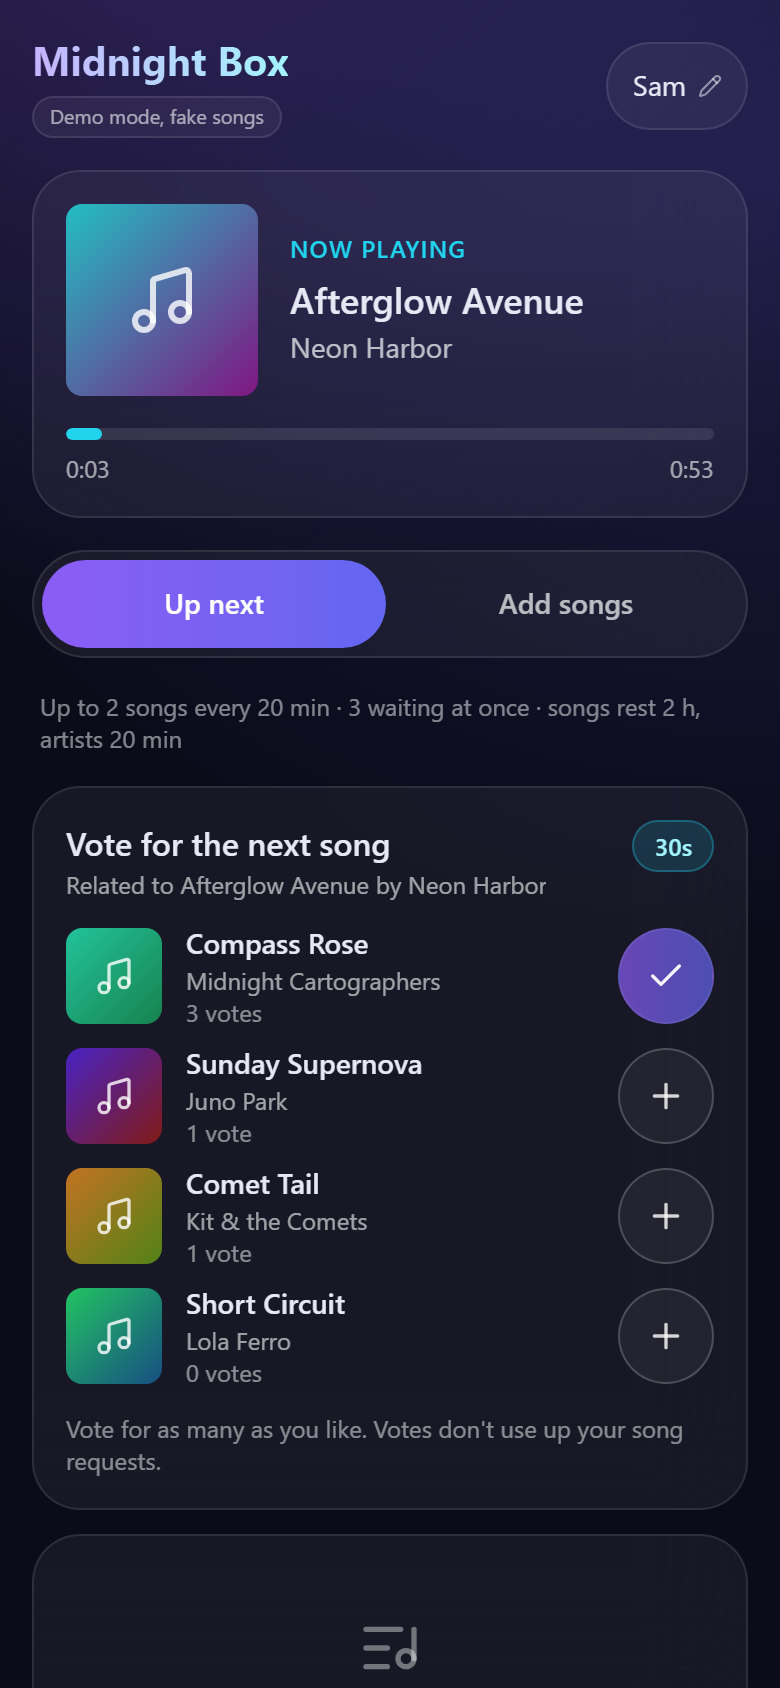
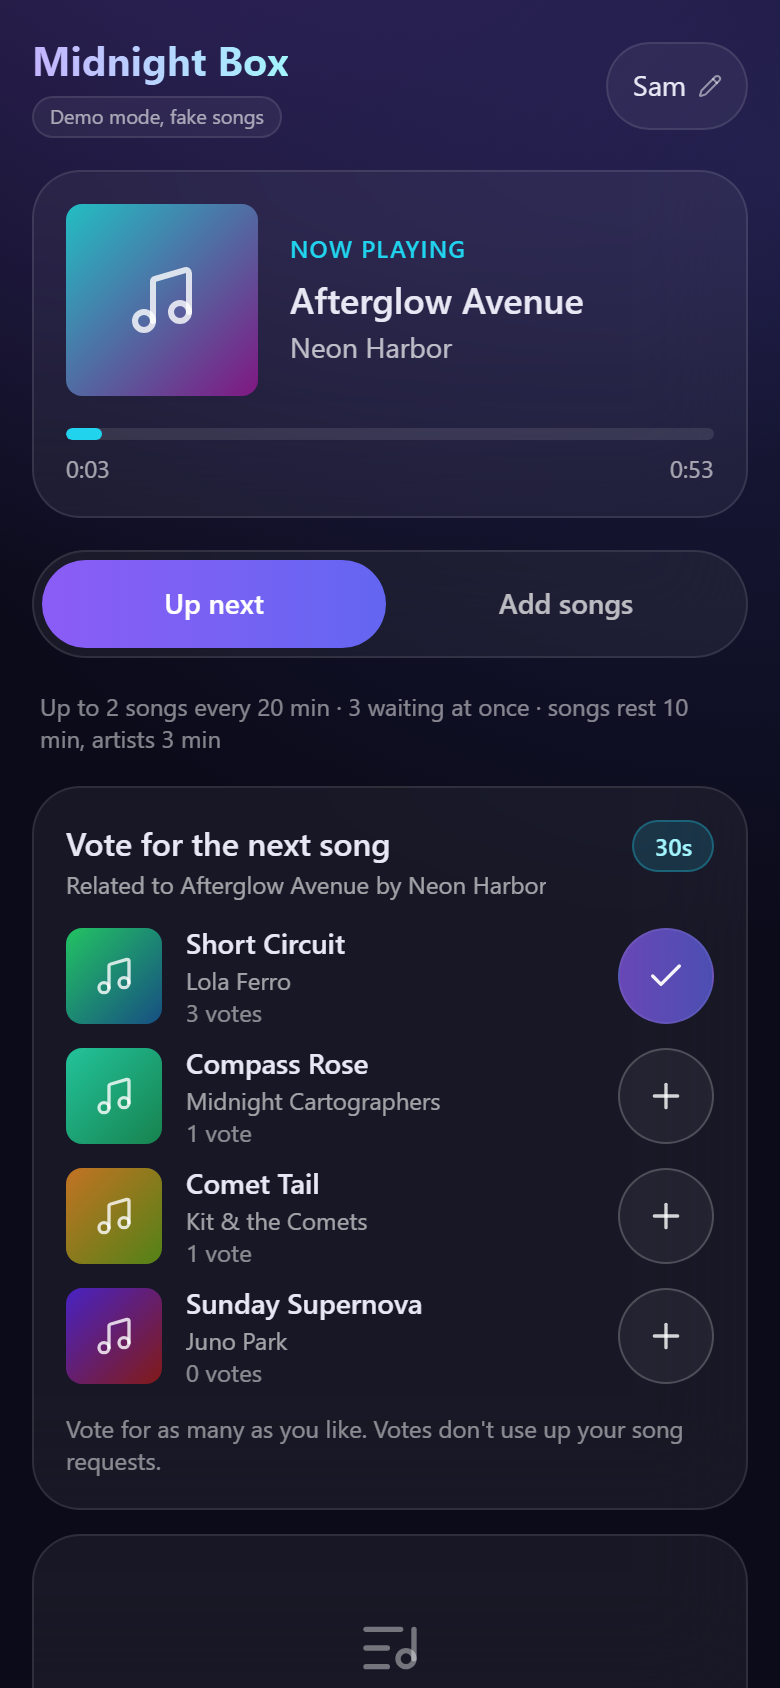
Shorten cooldowns in demo mode
The demo catalog has 36 shortened songs, so a 2-hour song cooldown rested
all of them within the hour and left nothing to vote on or queue.

diff --git a/server/src/config.ts b/server/src/config.ts
@@ -80,6 +80,10 @@ export function loadConfig(argv: string[], env: NodeJS.ProcessEnv): Config {
     );
   }
 
+  // Demo songs are 4x shorter and the catalog has only 36 of them, so party-length cooldowns would
+  // rest every song within the hour (and leave nothing to vote on). Demo mode caps them.
+  const demoCap = (minutes: number, cap: number) => (demo ? Math.min(minutes, cap) : minutes);
+
   return {
     dev,
     demo,
@@ -100,8 +104,8 @@ export function loadConfig(argv: string[], env: NodeJS.ProcessEnv): Config {
       maxPerRequest: Math.min(e.MAX_PER_REQUEST, e.MAX_PENDING_PER_GUEST),
       windowSongs: e.GUEST_WINDOW_SONGS,
       windowMinutes: e.GUEST_WINDOW_MINUTES,
-      songCooldownMinutes: e.SONG_COOLDOWN_MINUTES,
-      artistCooldownMinutes: e.ARTIST_COOLDOWN_MINUTES,
+      songCooldownMinutes: demoCap(e.SONG_COOLDOWN_MINUTES, 10),
+      artistCooldownMinutes: demoCap(e.ARTIST_COOLDOWN_MINUTES, 3),
     },
     vote: {
       lastfmApiKey: e.LASTFM_API_KEY ?? null,

diff --git a/README.md b/README.md
@@ -51,7 +51,8 @@ npm run demo
 
 Open http://127.0.0.1:5173 for the guest view and http://127.0.0.1:5173/admin for the host panel
 (the first visit asks you to set a host password). Phones on the same Wi-Fi can scan the QR code
-printed in the terminal.
+printed in the terminal. The demo has 36 made-up songs, so songs are shortened to under a minute
+and cooldowns to 10 minutes (songs) and 3 minutes (artists) to keep things moving.
 
 ## Run it with Spotify
 
